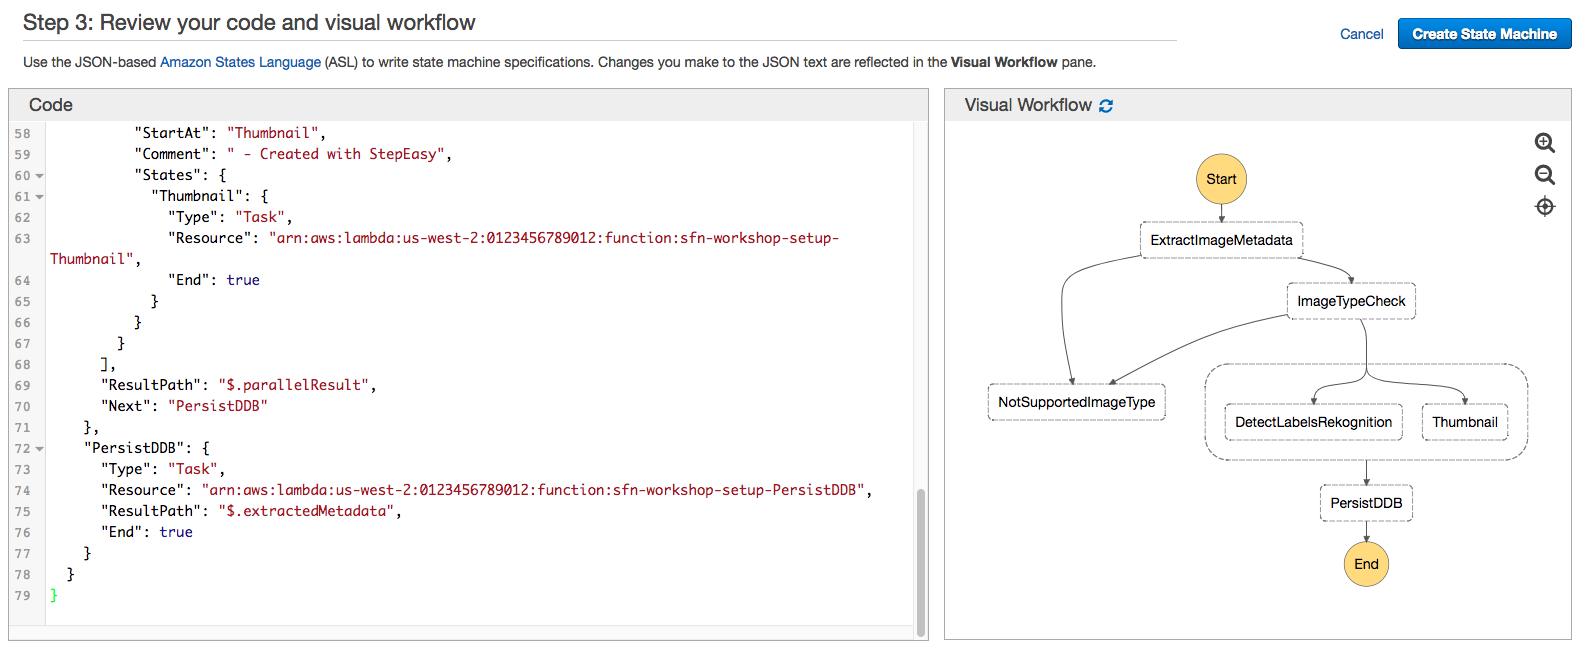
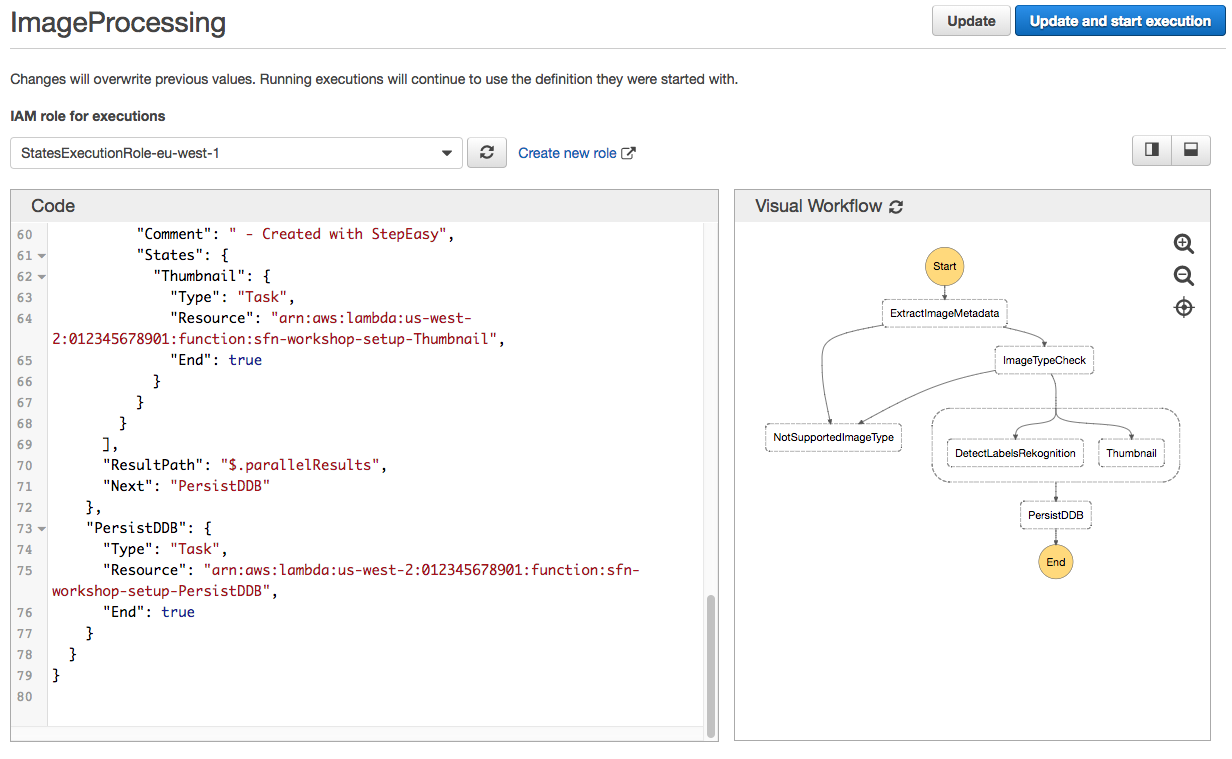
use udpate instead of new state machines

diff --git a/Workshop/step-4.md b/Workshop/step-4.md
@@ -23,39 +23,22 @@ Take a look at this documentation if you need help with the syntax:
 
 ### Step 4B: Create an AWS Step Functions state machine to test the result
 
-1.  Go to [AWS Step Functions management console](http://console.aws.amazon.com/states/home). Make sure the AWS Region selection matches the one you have been working with so far.
+1.  Go to [AWS Step Functions management console](http://console.aws.amazon.com/states/home). 
 
-1. Click **Create a State Machine**
-
-1. Type `ImageProcessing-5` for the state machine name
+1. Select the `ImageProcessing` state machine. Click on **Edit state machine**
 
 1. Paste in the JSON from your editor produced in Step 4A
-
-1. Locate the JSON snippet that corresponds to the definition of the `NotSupportedImageType` state. Remove the attribute `"End": true` from it (make sure the JSON document continues to be well-formend by removing the comma character right before the `End` attribute. The JSON of this state should be like this:
-
-	```javascript
-	"NotSupportedImageType": {
-	      "Type": "Fail",
-	      "Cause": "Image type not supported!",
-	      "Error": "FileTypeNotSupported"
-	    },
-
-	```
 
 1. Click on the &#x21ba; icon next to **Visual Workflow** to refresh the visual representation of the state machine:
 
 	<img src="images/4b-step-console-preview.png" width="90%">
 
-1. Click **Create State Machine**.
-
-1. In the pop-up window, select the IAM role automatically suggested you (the name should look like `StatesExecutionRole-{region-name}`).
-
-	![pick IAM role for state machine](./images/1b-pick-state-role.png)
+1. Click **Update and start execution**
 
 
 ### Step 4C: Test the state machine execution
 
-1. Click **New Execution** and use following input you have been using so far:
+1. Use the following input you have been using so far to test the execution
 
 	```JSON
 	{

diff --git a/Workshop/additional-steps.md b/Workshop/additional-steps.md
@@ -8,7 +8,7 @@ The challenges here are, pick your battle :)
 
 Some errors might require a retry due to throttling of endpoints, timeouts on Lambdas, unexpected exceptions and execution errors. As Werner Vogels, Amazon's CTO once said: "*everything fails, all the time*"!
 
-The challenge here is, by using our documentation about [retries] (http://docs.aws.amazon.com/step-functions/latest/dg/amazon-states-language-errors.html), you should be able to implement retries of each task whenever is needed. A good rule-of-thumb is to specify the set of errors that should not be retried, then set a retry policy to catch all other errors. 
+The challenge here is, by using our documentation about [retries](http://docs.aws.amazon.com/step-functions/latest/dg/amazon-states-language-errors.html), you should be able to implement retries of each task whenever is needed. A good rule-of-thumb is to specify the set of errors that should not be retried, then set a retry policy to catch all other errors. 
 
 > e.g. If the image type is not supported, there is no point on retrying. However, if PersistDDB fails with *"ProvisionedThroughputExceededException"*, we should retry storing the data. You can play with the different backoffs and max attempts in these settings. 
 > 

diff --git a/Workshop/step-2.md b/Workshop/step-2.md
@@ -97,11 +97,11 @@ Consider in our scenario we only support JPEG and PNG formats. The image analysi
 
 
 
-### Step 2B: Create an AWS Step Functions state machine to test the result
+### Step 2B: Update the AWS Step Functions state machine
 
 1. Go to [AWS Step Functions management console](http://console.aws.amazon.com/states/home). Make sure the AWS Region selection matches the one you have been working with so far.
 
-1. On the Dashboard click **Create a State Machine**. Type `ImageProcessing-3` as the state machine name
+1. Select the `ImageProcessing` state machine. Click on **Edit state machine**
 
 1. Scroll down and paste in the JSON generated from Step Easy tool in Step 2A
 
@@ -120,11 +120,7 @@ Consider in our scenario we only support JPEG and PNG formats. The image analysi
 
 	<img src="images/2b-step-console-preview.png" width="90%">
 
-1. Click **Create State Machine** to create the state machine.
-
-1. In the pop-up window, select the IAM role automatically generated for you (the name should look like `StatesExecutionRole-{region-name}`).
-
-	![pick IAM role for state machine](./images/1b-pick-state-role.png)
+1. Click **Update and start execution**
 	
 
 ### Step 2C: Test the state machine execution
